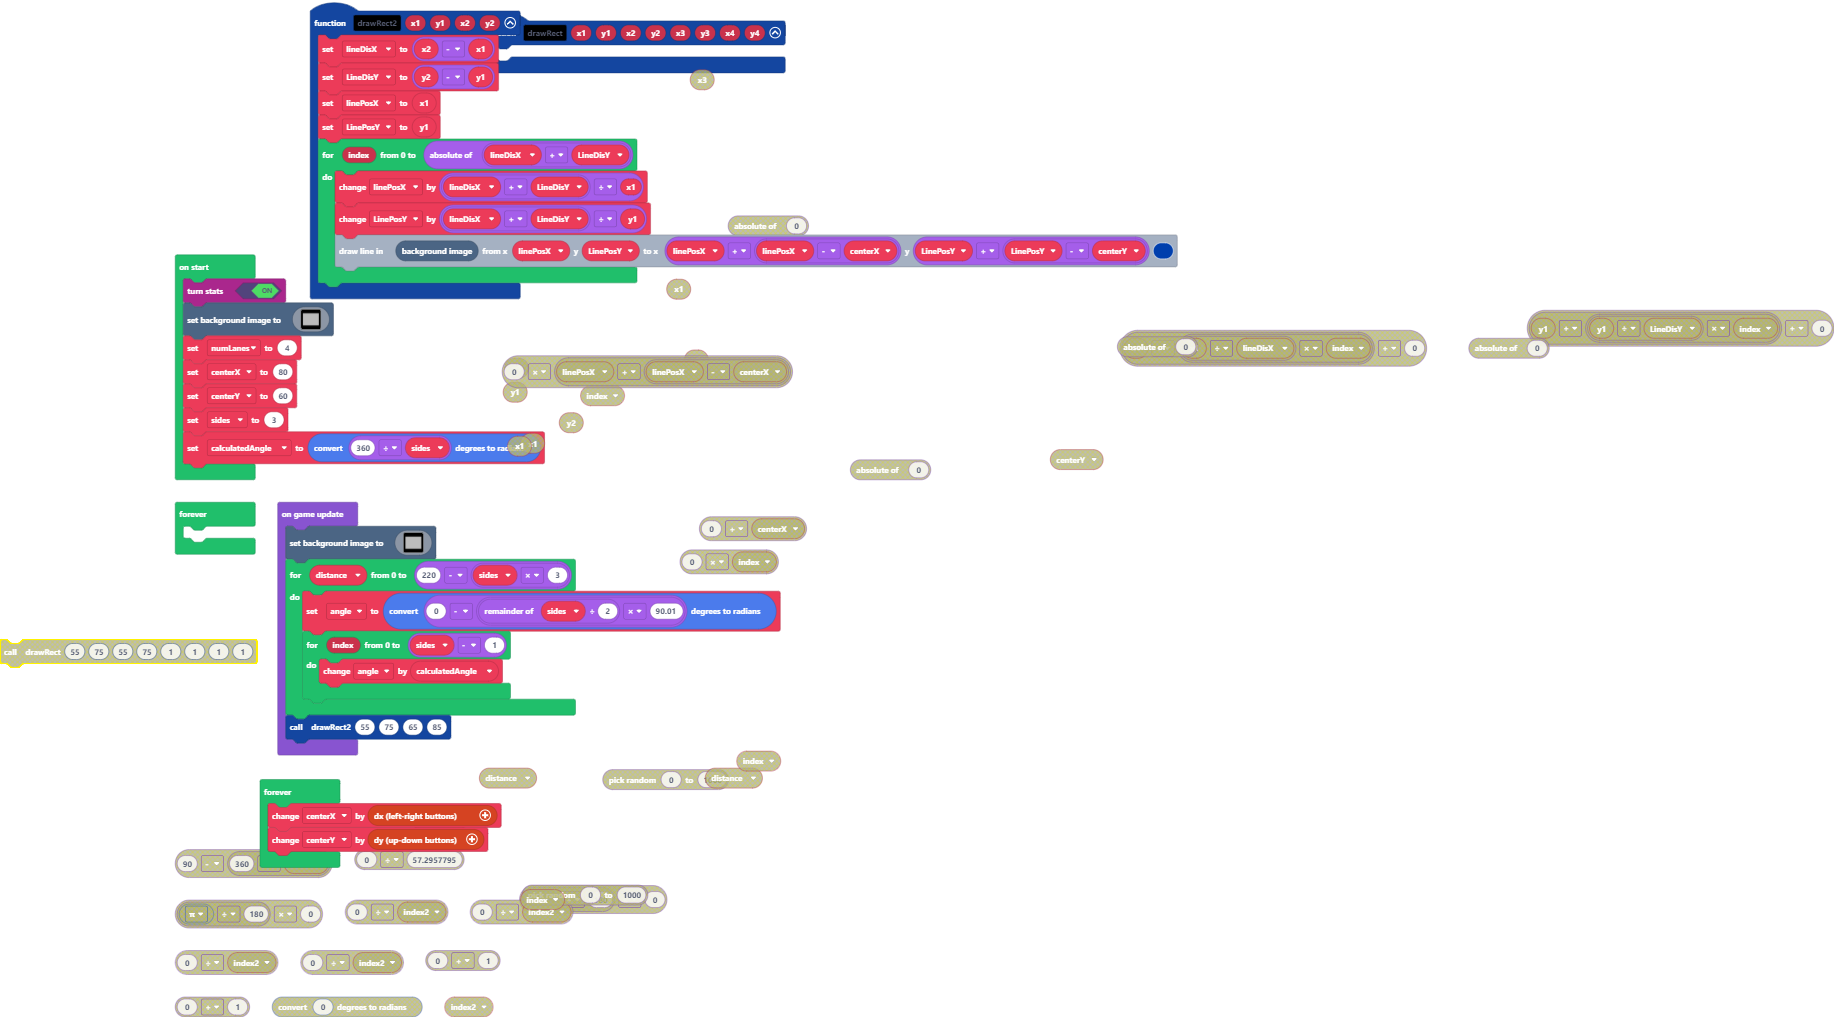
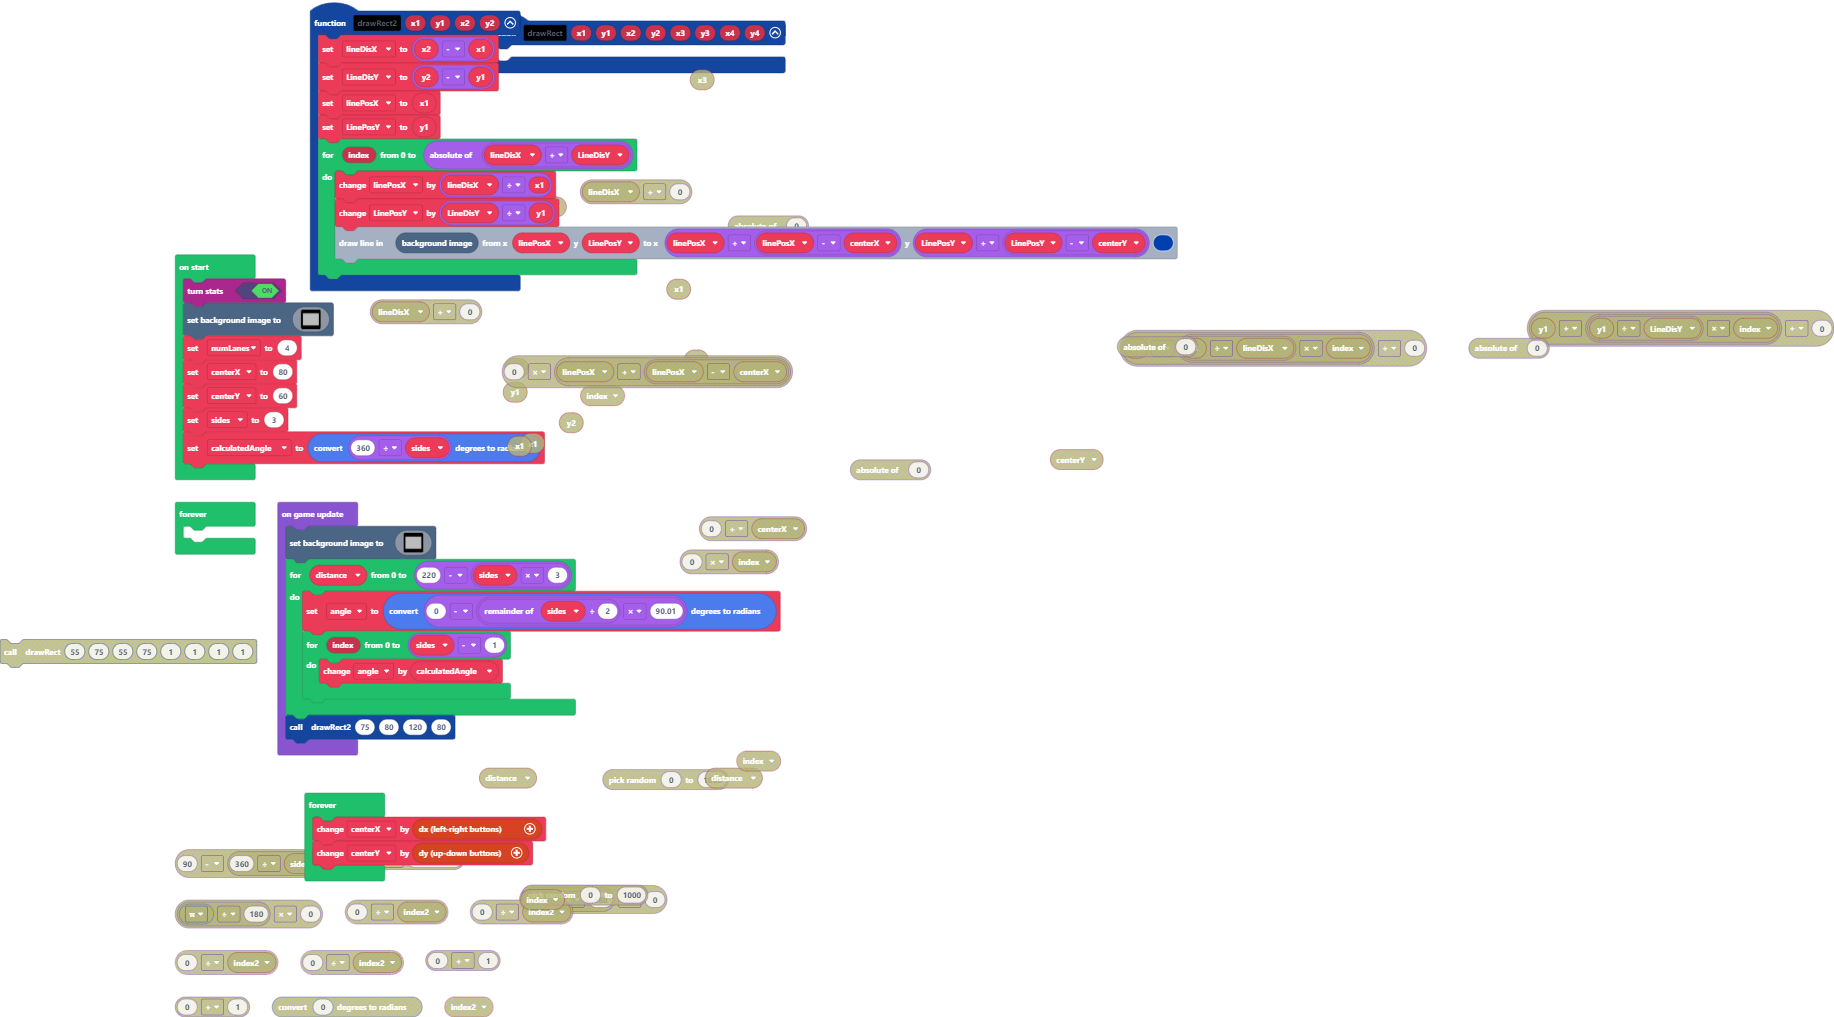
Update main.blocks, main.ts

Changed region(s): [[0.1554, 0.1524, 0.6527, 0.3353], [0.1243, 0.762, 0.3108, 0.884], [0.2176, 0.7011, 0.2486, 0.7316]]

diff --git a/main.ts b/main.ts
@@ -4,8 +4,8 @@ function drawRect2 (x1: number, y1: number, x2: number, y2: number) {
     linePosX = x1
     LinePosY = y1
     for (let index = 0; index <= Math.abs(lineDisX + LineDisY); index++) {
-        linePosX += (lineDisX + LineDisY) / x1
-        LinePosY += (lineDisX + LineDisY) / y1
+        linePosX += lineDisX / x1
+        LinePosY += LineDisY / y1
         scene.backgroundImage().drawLine(linePosX, LinePosY, linePosX + (linePosX - centerX), LinePosY + (LinePosY - centerY), 8)
     }
 }
@@ -276,7 +276,7 @@ game.onUpdate(function () {
             angle += calculatedAngle
         }
     }
-    drawRect2(55, 75, 65, 85)
+    drawRect2(75, 80, 120, 80)
 })
 forever(function () {
 	
